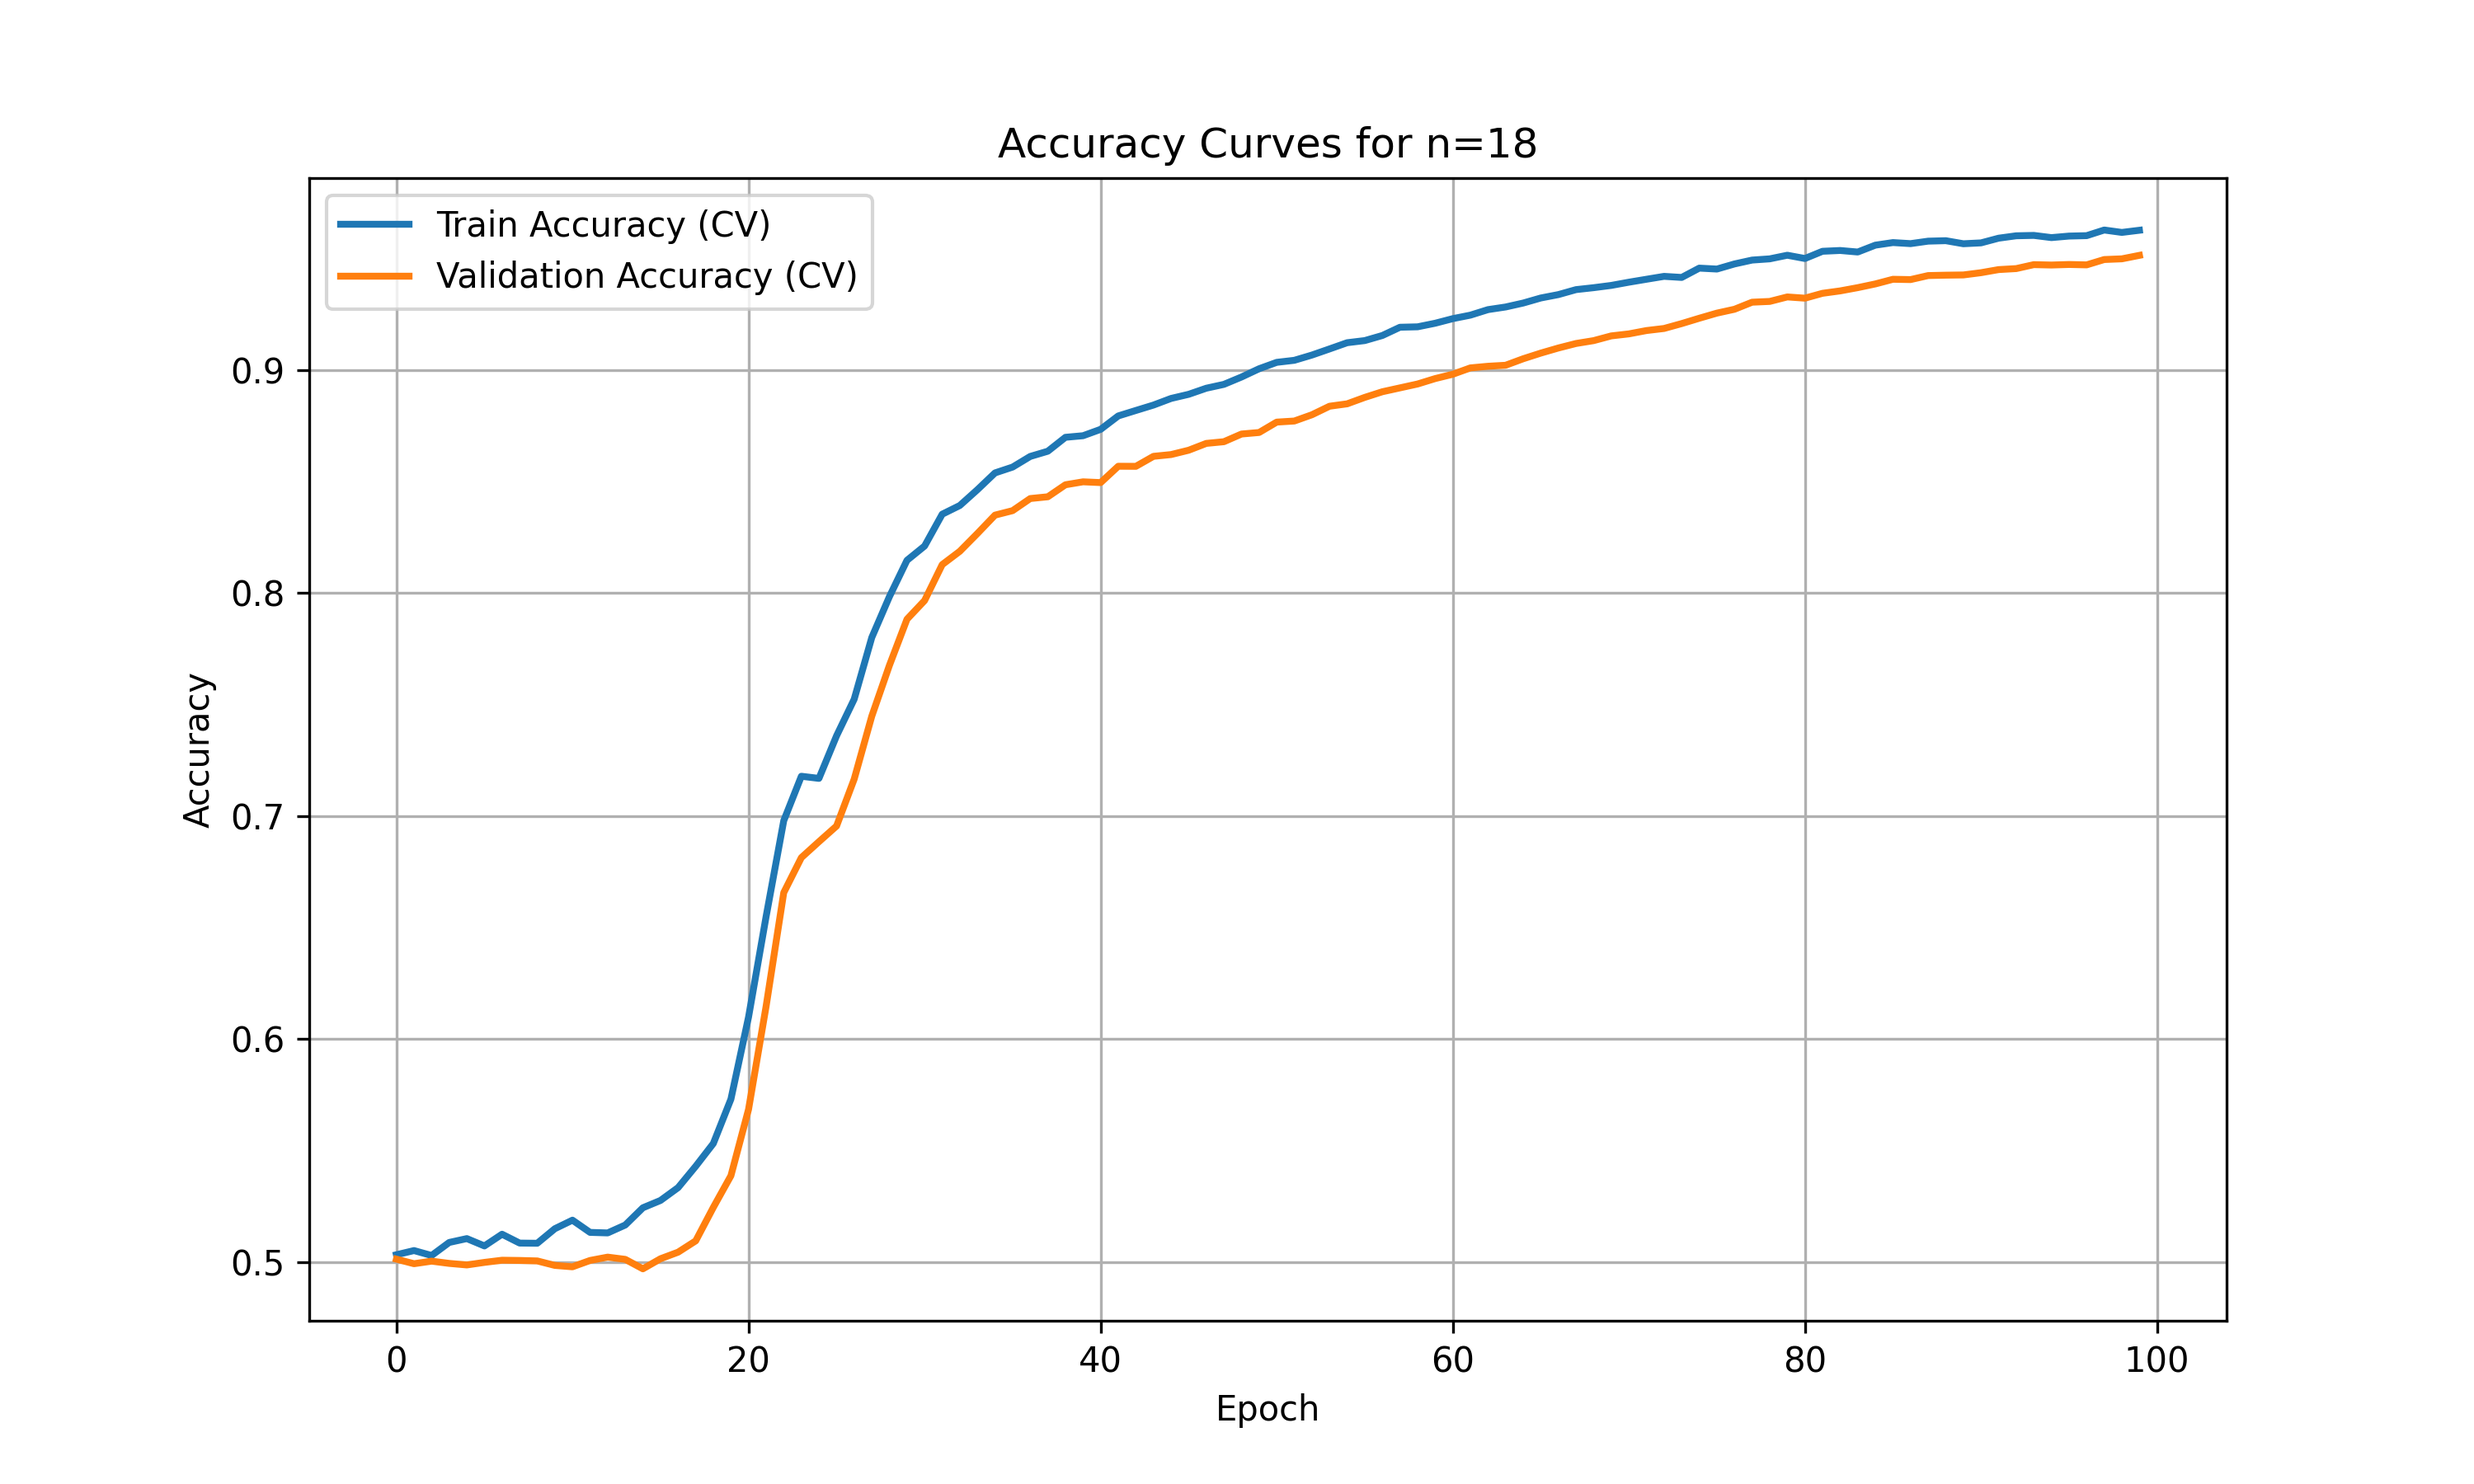
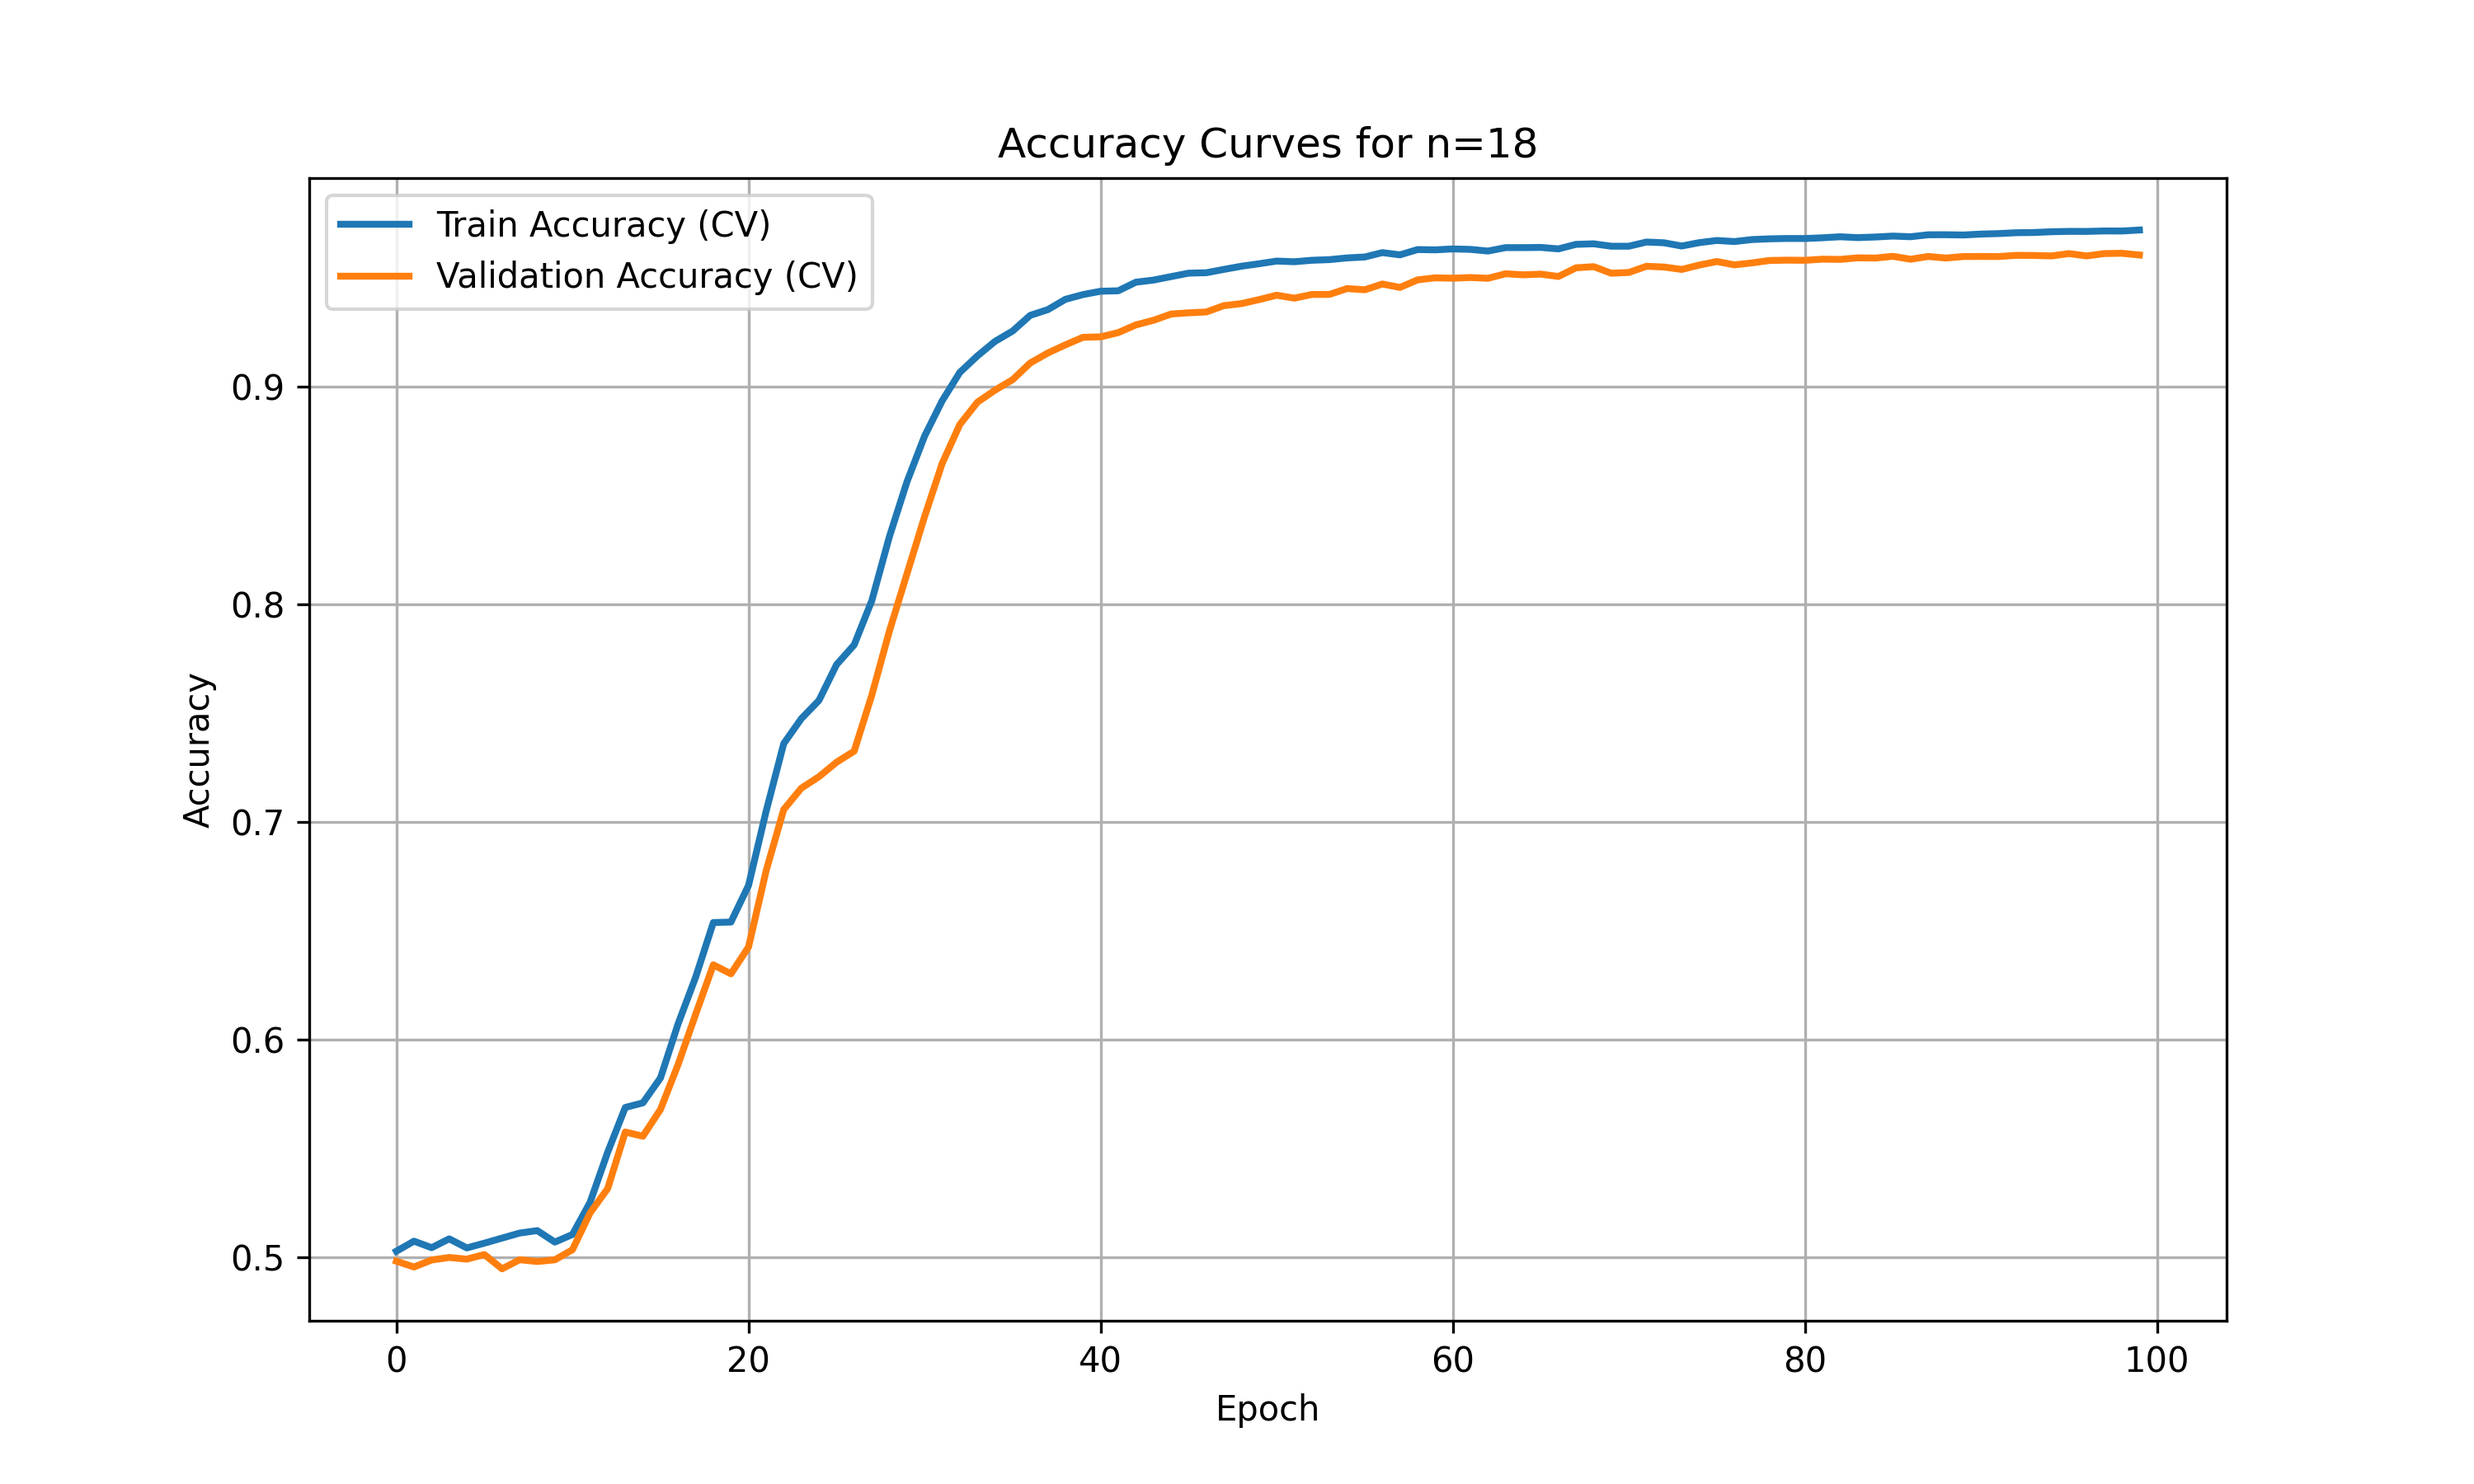
Minor fixes to the Pytorch code

Changed region(s): [[0.093, 0.1556, 0.899, 0.8711], [0.093, 0.3733, 0.124, 0.4356]]

diff --git a/pytorch_MLP_convergence.py b/pytorch_MLP_convergence.py
@@ -13,12 +13,15 @@ import torch.nn as nn
 import torch.optim as optim
 from torch.utils.data import TensorDataset, DataLoader
 
+plt.rcParams.update({'font.size': 10})
+
+
 
 N_EPOCHS = 100
-PATIENCE = 50 
+PATIENCE = 50  
 MIN_DELTA = 1e-3 
 
-N_VALUES = [10, 12, 14, 16, 18, 20]
+N_VALUES = [10,12,14,16,18,20]
 CSV_HPARAMS = "./MLP_ECE/MLP_optimization/random/results_all.csv"
 TRAIN_DATA_PATH = "./Datasets/Train_Data"
 OUTPUT_DIR = "PyTorch_Convergence" 
@@ -26,7 +29,7 @@ VAL_SUMMARY_CSV = "pytorch_val_summary.csv"
 
 
 class MLP(nn.Module):
-    def __init__(self, input_dim, hidden_sizes, activation, dropout, num_classes=10):
+    def __init__(self, input_dim, hidden_sizes, activation, dropout, num_classes=1):
         super().__init__()
 
         layers = []
@@ -81,7 +84,10 @@ def evaluate(model, loader, criterion, device):
             loss = criterion(logits, yb)
 
             total_loss += loss.item() * xb.size(0)
-            correct += (logits.argmax(dim=1) == yb).sum().item()
+
+            probs = torch.sigmoid(logits)
+            preds = (probs > 0.5).float()
+            correct += (preds == yb).sum().item()
 
     avg_loss = total_loss / len(loader.dataset)
     accuracy = correct / len(loader.dataset)
@@ -95,10 +101,13 @@ def compute_accuracy(model, loader, device):
     with torch.no_grad():
         for xb, yb in loader:
             xb, yb = xb.to(device), yb.to(device)
-            preds = model(xb).argmax(dim=1)
+            logits = model(xb)
+            probs = torch.sigmoid(logits)
+            preds = (probs > 0.5).float()
             correct += (preds == yb).sum().item()
             total += yb.size(0)
     return correct / total
+
 
 
 def parse_params(row):
@@ -147,9 +156,10 @@ def run_5fold_cv(X, y, params, device,
         X_val_fold   = scaler.transform(X_val_fold)
 
         X_train_t = torch.tensor(X_train_fold, dtype=torch.float32)
-        y_train_t = torch.tensor(y_train_fold, dtype=torch.long)
-        X_val_t   = torch.tensor(X_val_fold, dtype=torch.float32)
-        y_val_t   = torch.tensor(y_val_fold, dtype=torch.long)
+        y_train_t = torch.tensor(y_train_fold, dtype=torch.float32).unsqueeze(1)
+        X_val_t   = torch.tensor(X_val_fold,   dtype=torch.float32)
+        y_val_t   = torch.tensor(y_val_fold,   dtype=torch.float32).unsqueeze(1)
+
 
         train_loader = DataLoader(
             TensorDataset(X_train_t, y_train_t),
@@ -169,7 +179,7 @@ def run_5fold_cv(X, y, params, device,
             dropout=params["dropout"]
         ).to(device)
 
-        criterion = nn.CrossEntropyLoss()
+        criterion = nn.BCEWithLogitsLoss()
         optimizer = optim.Adam(
             model.parameters(),
             lr=params["lr"],

diff --git a/pytorch_MLP_evaluation.py b/pytorch_MLP_evaluation.py
@@ -25,7 +25,7 @@ OUTPUT_DIR = "PyTorch_Test_Results"
 
 
 class MLP(nn.Module):
-    def __init__(self, input_dim, hidden_sizes, activation, dropout, num_classes=10):
+    def __init__(self, input_dim, hidden_sizes, activation, dropout, num_classes=1):
         super().__init__()
 
         layers = []
@@ -82,7 +82,10 @@ def evaluate(model, loader, criterion, device):
             loss = criterion(logits, yb)
 
             total_loss += loss.item() * xb.size(0)
-            correct += (logits.argmax(dim=1) == yb).sum().item()
+            probs = torch.sigmoid(logits)
+            preds = (probs > 0.5).float()
+            correct += (preds == yb).sum().item()
+
 
     avg_loss = total_loss / len(loader.dataset)
     accuracy = correct / len(loader.dataset)
@@ -124,9 +127,9 @@ def train_full_and_test(X_train, y_train, X_test, y_test, params, device,
     X_test  = scaler.transform(X_test)
 
     X_train_t = torch.tensor(X_train, dtype=torch.float32)
-    y_train_t = torch.tensor(y_train, dtype=torch.long)
+    y_train_t = torch.tensor(y_train, dtype=torch.float32).unsqueeze(1)
     X_test_t  = torch.tensor(X_test, dtype=torch.float32)
-    y_test_t  = torch.tensor(y_test, dtype=torch.long)
+    y_test_t  = torch.tensor(y_test, dtype=torch.float32).unsqueeze(1)
 
     train_ds = TensorDataset(X_train_t, y_train_t)
     test_ds  = TensorDataset(X_test_t, y_test_t)
@@ -149,7 +152,7 @@ def train_full_and_test(X_train, y_train, X_test, y_test, params, device,
         dropout=params["dropout"]
     ).to(device)
 
-    criterion = nn.CrossEntropyLoss()
+    criterion = nn.BCEWithLogitsLoss()
     optimizer = optim.Adam(
         model.parameters(),
         lr=params["lr"],
